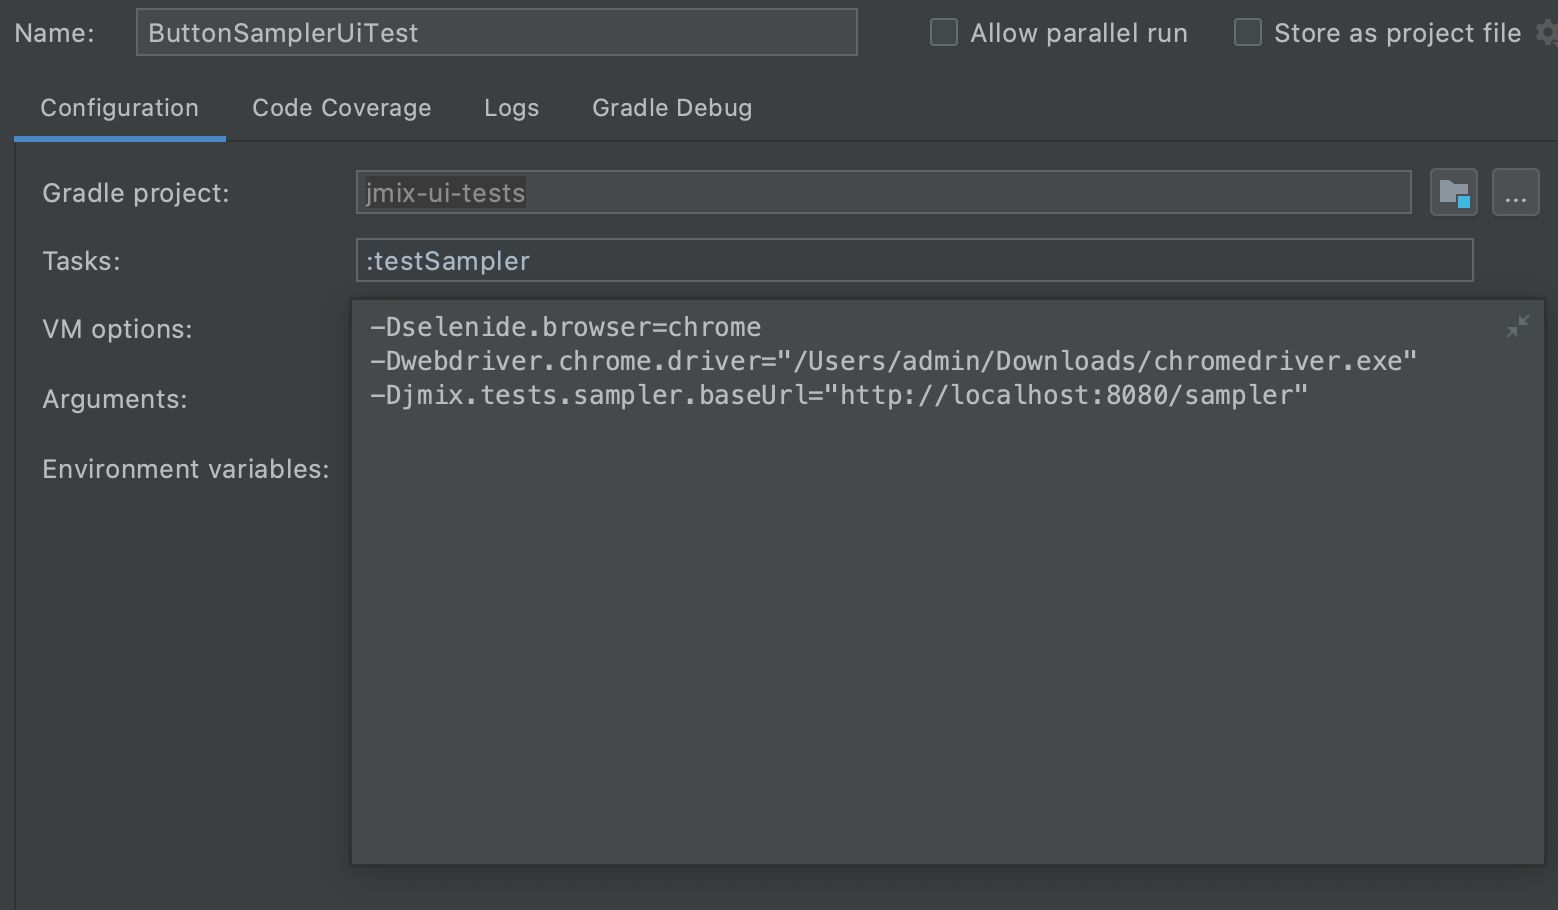
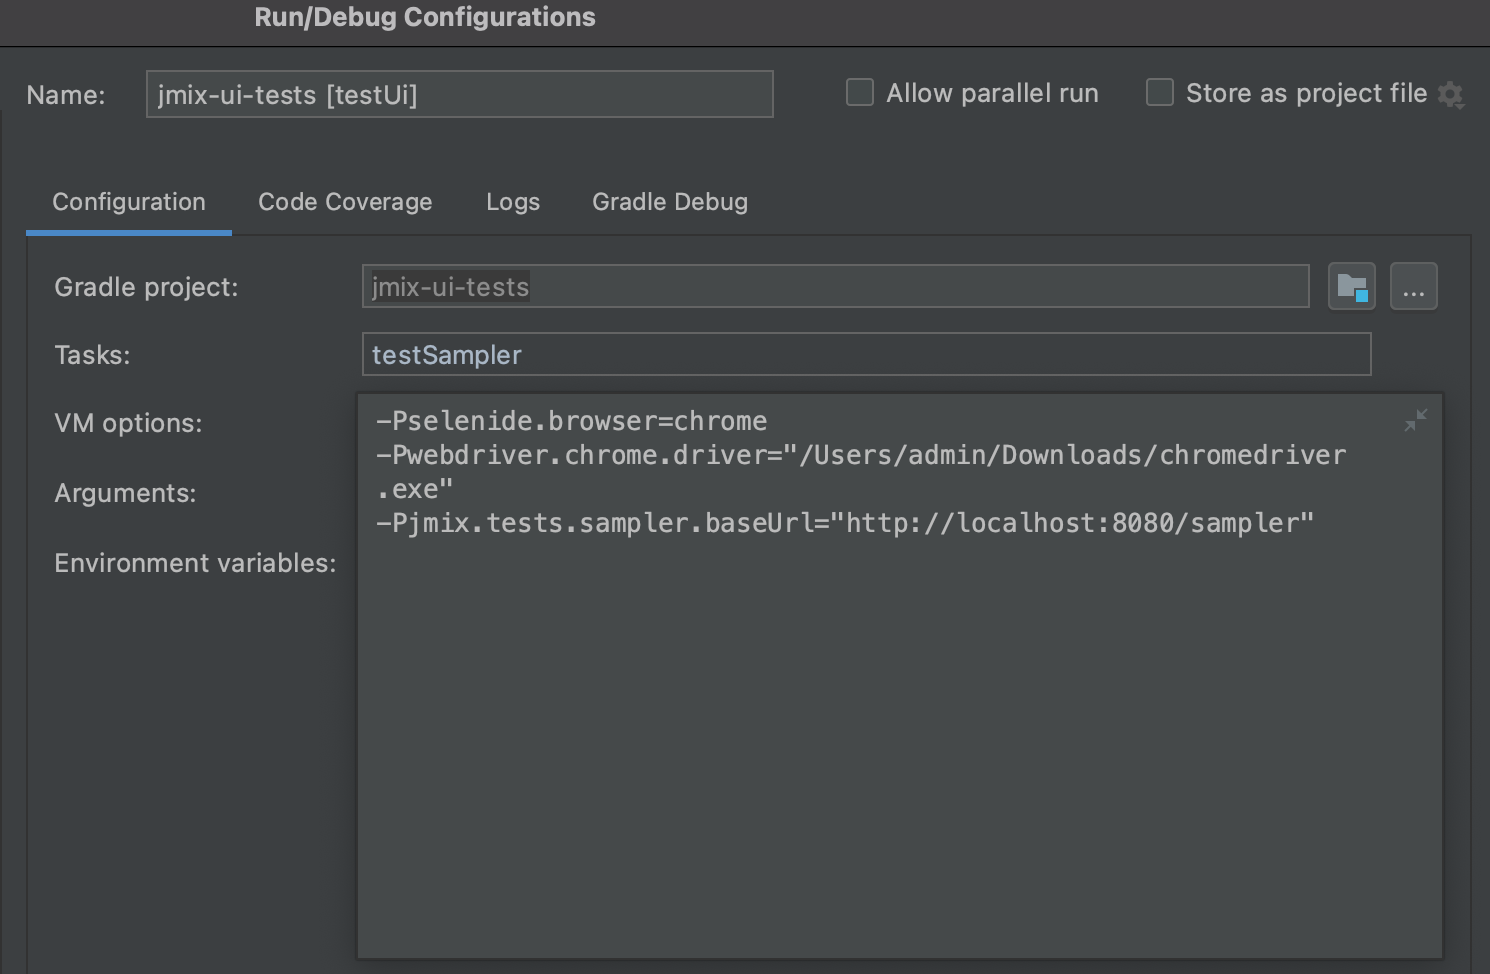
Replace system properties with environment variables

diff --git a/README.md b/README.md
@@ -89,17 +89,17 @@ drop-down list. In the VM options field, add the following:
 
 * UI package
 ```
--Dselenide.browser=chrome 
--Dwebdriver.chrome.driver=<your_path>/chromedriver.exe 
--Djmix.tests.ui.baseHost=http://localhost
+-Pselenide.browser=chrome 
+-Pwebdriver.chrome.driver=<your_path>/chromedriver.exe 
+-Pjmix.tests.ui.baseHost=http://localhost
 ```
 ![Ui Chrome Test Configuration](images/uiChromeTestConfiguration.png)
 
 * Sampler package
 ```
--Dselenide.browser=chrome 
--Dwebdriver.chrome.driver=<your_path>/chromedriver.exe 
--Djmix.tests.sampler.baseUrl=http://localhost:8080/sampler
+-Pselenide.browser=chrome 
+-Pwebdriver.chrome.driver=<your_path>/chromedriver.exe 
+-Pjmix.tests.sampler.baseUrl=http://localhost:8080/sampler
 ```
 ![Sampler Chrome Test Configuration](images/samplerChromeTestConfiguration.png)
 
@@ -111,12 +111,12 @@ click on it and select *Debug* option.
 To run the tests using Gradle, run the following task in the terminal:
 * UI package
 ```
-gradle testUi -Dselenide.browser=chrome -Dwebdriver.chrome.driver=<your_path>/chromedriver.exe -Djmix.tests.ui.baseHost=http://localhost
+gradle testUi -Pselenide.browser=chrome -Pwebdriver.chrome.driver=<your_path>/chromedriver.exe -Pjmix.tests.ui.baseHost=http://localhost
 ```
 
 * Sampler package
 ```
-gradle testSampler -Dselenide.browser=chrome -Dwebdriver.chrome.driver=<your_path>/chromedriver.exe -Djmix.tests.sampler.baseUrl=http://localhost:8080/sampler
+gradle testSampler -Pselenide.browser=chrome -Pwebdriver.chrome.driver=<your_path>/chromedriver.exe -Pjmix.tests.sampler.baseUrl=http://localhost:8080/sampler
 ```
     
 where `<your_path>` is the path to the chrome driver on your computer.
@@ -130,17 +130,17 @@ drop-down list. In the VM options field, add the following:
 
 * UI package
 ```
--Dselenide.browser=firefox
--Dwebdriver.gecko.driver=<your_path>/geckodriver.exe 
--Djmix.tests.ui.baseHost=http://localhost
+-Pselenide.browser=firefox
+-Pwebdriver.gecko.driver=<your_path>/geckodriver.exe 
+-Pjmix.tests.ui.baseHost=http://localhost
 ```
 ![Ui Firefox Test Configuration](images/uiFirefoxTestConfiguration.png)
 
 * Sampler package
 ```
--Dselenide.browser=firefox 
--Dwebdriver.gecko.driver=<your_path>/geckodriver.exe 
--Djmix.tests.sampler.baseUrl=http://localhost:8080/sampler
+-Pselenide.browser=firefox 
+-Pwebdriver.gecko.driver=<your_path>/geckodriver.exe 
+-Pjmix.tests.sampler.baseUrl=http://localhost:8080/sampler
 ```
 ![Sampler Firefox Test Configuration](images/samplerFirefoxTestConfiguration.png)
 
@@ -152,12 +152,12 @@ click on it and select *Debug* option.
 To run the tests using Gradle, run the following task in the terminal:
 * UI package
 ```
-gradle testUi -Dselenide.browser=firefox -Dwebdriver.gecko.driver=<your_path>/geckodriver.exe -Djmix.tests.ui.baseHost=http://localhost
+gradle testUi -Pselenide.browser=firefox -Pwebdriver.gecko.driver=<your_path>/geckodriver.exe -Pjmix.tests.ui.baseHost=http://localhost
 ```
 
 * Sampler package
 ```
-gradle testSampler -Dselenide.browser=firefox -Dwebdriver.gecko.driver=<your_path>/geckodriver.exe -Djmix.tests.sampler.baseUrl=http://localhost:8080/sampler
+gradle testSampler -Pselenide.browser=firefox -Pwebdriver.gecko.driver=<your_path>/geckodriver.exe -Pjmix.tests.sampler.baseUrl=http://localhost:8080/sampler
 ```
     
 where `<your_path>` is the path to the firefox driver on your computer.
